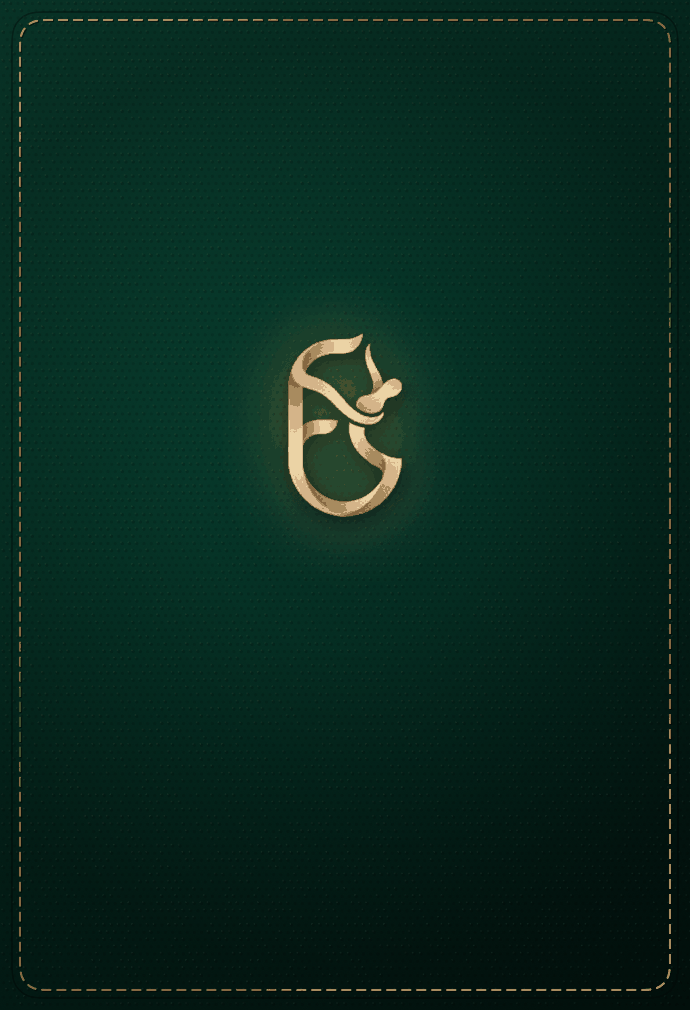
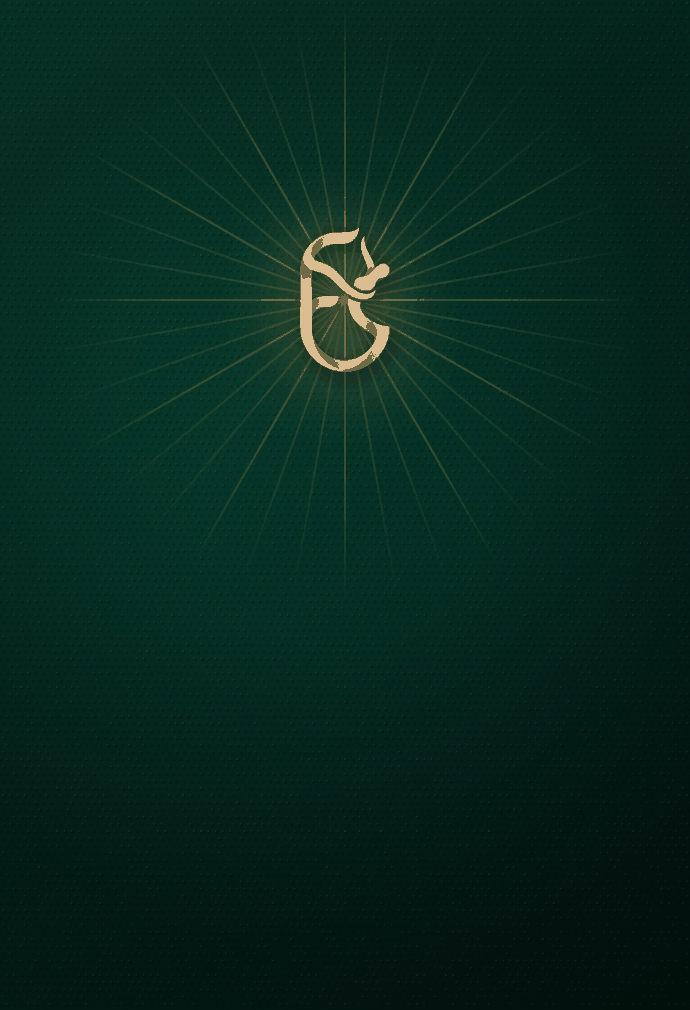
fix(wallet): poster with the emblem in a gold sunburst above the QR, name and club only
The leather fills the whole pass without the cut-off stitching, the logo
text no longer doubles the ENCORE wordmark, and a missing club is not
replaced by a made-up one.

Changed region(s): [[0.3348, 0.1842, 0.6391, 0.5218], [0.6087, 0.3376, 0.6391, 0.3683]]

diff --git a/web/src/app/api/wallet/pass/route.ts b/web/src/app/api/wallet/pass/route.ts
@@ -51,7 +51,8 @@ export async function GET(request: NextRequest) {
       .single()
 
     const userName = profile?.name || user.user_metadata?.full_name || 'Tanečník'
-    const userClub = profile?.club || user.user_metadata?.club || 'Encore Dance Club'
+    // No made-up club: without one the pass simply says it is a member card.
+    const userClub: string | null = profile?.club || user.user_metadata?.club || null
     const inviteCode = profile?.invite_code || user.id.substring(0, 8).toUpperCase()
     // The pass lives for years: always the real domain (the app's universal links), never an env leftover.
     const domain = 'www.encore-sk.com'
@@ -122,8 +123,7 @@ export async function GET(request: NextRequest) {
         // The card theme chosen in the app (Profil → Vzhľad); Karmín when there is none.
         foregroundColor: rgbOr(profile?.card_theme?.foreground_color, 'rgb(255, 230, 153)'),
         backgroundColor: rgbOr(profile?.card_theme?.background_color, 'rgb(102, 3, 18)'),
-        labelColor: rgbOr(profile?.card_theme?.label_color, 'rgb(212, 175, 55)'),
-        logoText: 'ENCORE'
+        labelColor: rgbOr(profile?.card_theme?.label_color, 'rgb(212, 175, 55)')
       }
     )
 
@@ -154,25 +154,21 @@ export async function GET(request: NextRequest) {
       { key: 'website', label: 'Web', value: `https://${domain}` }
     ]
 
-    // iOS 27+: Poster Generic, the card's leather and emblem across the whole pass (background image).
-    // The first primary field has no label, so Wallet shows the name as the bold title.
+    // iOS 27+: Poster Generic, the card's leather with the emblem in a gold sunburst above the QR code
+    // (background image). Only the name as the bold title (a primary field without a label) and the club
+    // in the footer, so the leather stays visible.
     const poster = new PassType('posterGeneric')
     poster.headerFields.push({ key: 'dancer', label: 'ID TANEČNÍKA', value: dancerId })
-    poster.primaryFields.push(
-      { key: 'member', value: userName },
-      { key: 'club', label: 'TANEČNÝ KLUB', value: userClub }
-    )
-    poster.footerFields.push({ key: 'kind', value: 'Členská karta' })
+    poster.primaryFields.push({ key: 'member', value: userName })
+    poster.footerFields.push({ key: 'club', value: userClub ?? 'Členská karta' })
     poster.backFields.push(...backFields)
 
     // iOS 26 and earlier: store card with the leather strip. No primary field there: Wallet would print it
     // large across the strip, over the emblem.
     const storeCard = new PassType('storeCard')
     storeCard.headerFields.push({ key: 'dancer', label: 'ID TANEČNÍKA', value: dancerId })
-    storeCard.secondaryFields.push(
-      { key: 'member', label: 'TANEČNÍK', value: userName },
-      { key: 'club', label: 'TANEČNÝ KLUB', value: userClub }
-    )
+    storeCard.secondaryFields.push({ key: 'member', label: 'TANEČNÍK', value: userName })
+    if (userClub) storeCard.secondaryFields.push({ key: 'club', label: 'TANEČNÝ KLUB', value: userClub })
     storeCard.backFields.push(...backFields)
 
     // Wallet prefers posterGeneric where it knows it and falls back to the store card elsewhere.
@@ -184,16 +180,10 @@ export async function GET(request: NextRequest) {
       { identifier: 'results', type: 'membershipBenefits', url: `https://${domain}/quick/results` }
     ]
 
-    // Load icon and logo images from public folder
+    // Icon from the public folder; the logo is the emblem with the ENCORE wordmark (public/wallet), the
+    // same picture as the poster's primary logo, so no logo text is needed next to it.
     const publicDir = path.join(process.cwd(), 'public')
-    const logoPath = path.join(publicDir, 'encore_logo.png')
     const iconPath = path.join(publicDir, 'logo.png')
-
-    if (fs.existsSync(logoPath)) {
-      const logoBuf = fs.readFileSync(logoPath)
-      pass.addBuffer('logo.png', logoBuf)
-      pass.addBuffer('logo@2x.png', logoBuf)
-    }
 
     if (fs.existsSync(iconPath)) {
       const iconBuf = fs.readFileSync(iconPath)
@@ -216,7 +206,10 @@ export async function GET(request: NextRequest) {
     }
     for (const scale of ['', '@2x', '@3x']) {
       const logoArt = path.join(publicDir, 'wallet', `primaryLogo${scale}.png`)
-      if (fs.existsSync(logoArt)) pass.addBuffer(`primaryLogo${scale}.png`, fs.readFileSync(logoArt))
+      if (!fs.existsSync(logoArt)) continue
+      const logoBuf = fs.readFileSync(logoArt)
+      pass.addBuffer(`primaryLogo${scale}.png`, logoBuf)
+      pass.addBuffer(`logo${scale}.png`, logoBuf)
     }
 
     // Generate signed .pkpass binary buffer

diff --git a/web/next.config.ts b/web/next.config.ts
@@ -36,7 +36,7 @@ const nextConfig: NextConfig = {
   // The Apple Wallet pass reads its icon and logo from public/ at runtime; without this the
   // serverless function on Vercel may not have the files and the pass fails.
   outputFileTracingIncludes: {
-    '/api/wallet/pass': ['./public/logo.png', './public/encore_logo.png', './public/wallet/**'],
+    '/api/wallet/pass': ['./public/logo.png', './public/wallet/**'],
   },
 
   // Lock Screen buttons of the app open /quick/…; without Encore installed they land on the download page.
